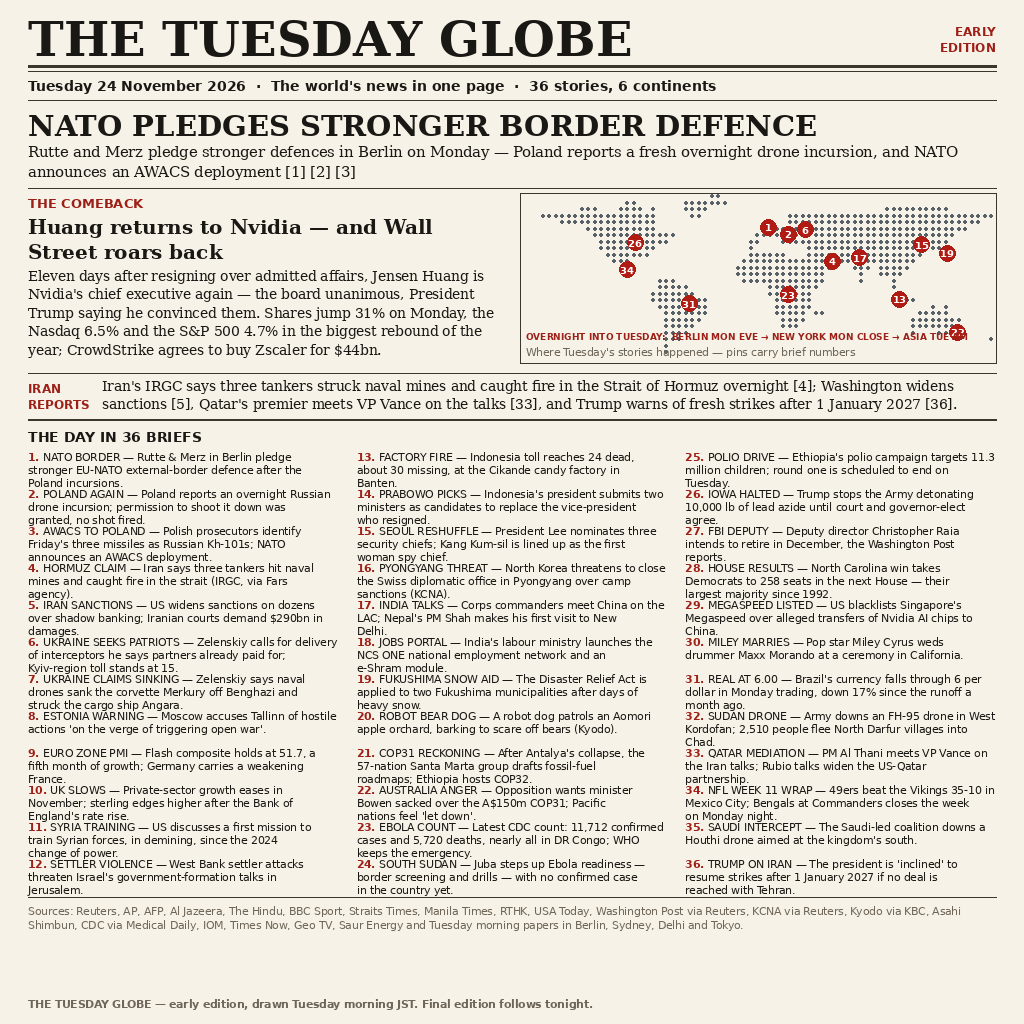
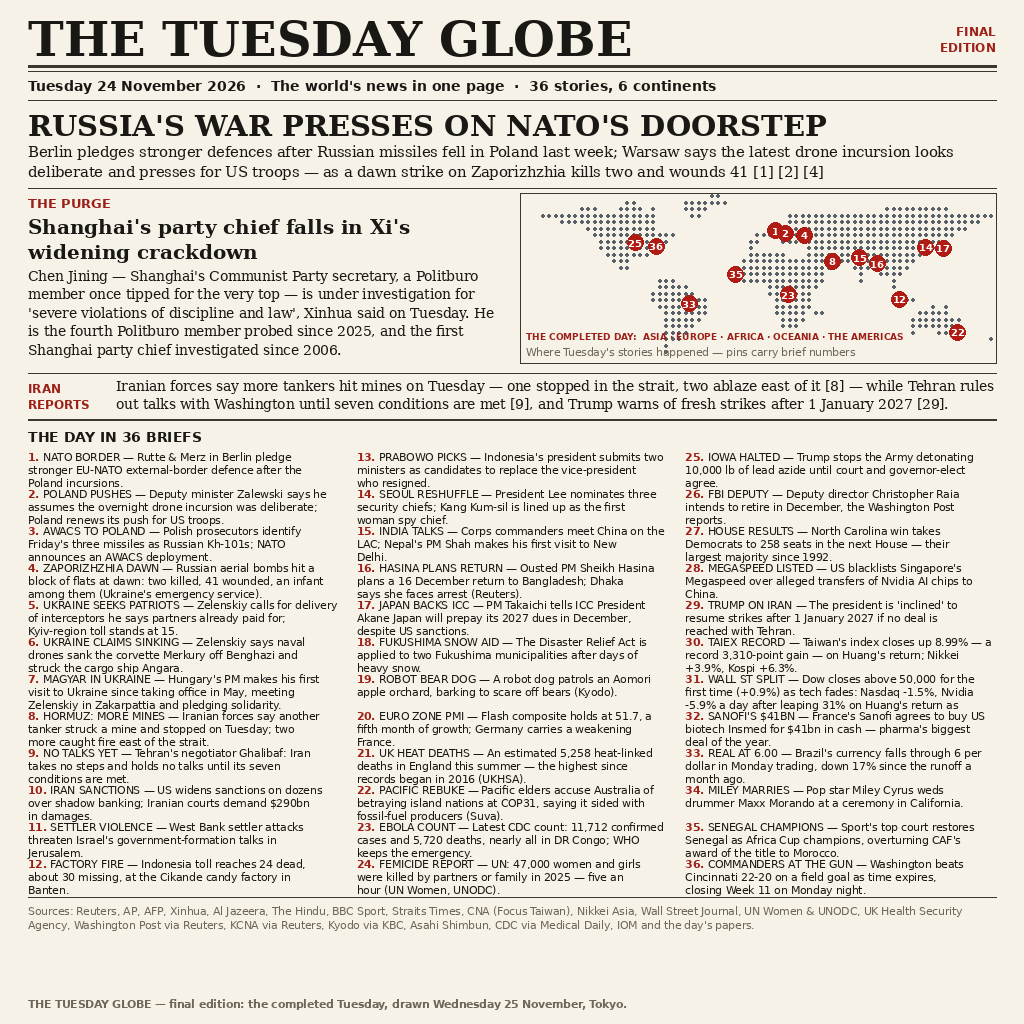
Final edition: completed Tuesday — new lead, Shanghai purge, Hormuz escalation, Tuesday markets

diff --git a/SOURCES.md b/SOURCES.md
@@ -1,63 +1,90 @@
-# Sources — Tuesday 24 November 2026 (early edition)
+# Sources — Tuesday 24 November 2026 (final edition)
 
-Every story on the page was reported on Tuesday 24 November 2026
-(Tuesday papers and Tuesday-morning wires), or is a Monday event
-carried on Tuesday's front pages; single-source claims are
-attributed on the page itself.
+Every story on the page was reported on Tuesday 24 November 2026,
+or is a Monday development that Tuesday's papers carried and that
+the page dates as such. Single-source and single-side claims are
+attributed on the page itself. This final edition was drawn on
+Wednesday 25 November with the completed Tuesday available in
+every time zone, and replaces the early edition.
 
-## Lead — NATO's eastern border
+## Lead — Russia's war and NATO's border
 
-Reuters reported NATO will deploy an AWACS early-warning aircraft
-to Poland after prosecutors confirmed three Russian Kh-101
-missiles, manufactured in Russia in Q4 2026, landed in Poland on
-Friday; and that a Russian UAV briefly violated Polish airspace
-overnight during the attack on western Ukraine, with a shoot-down
-authorised but not carried out. Kyodo's wire (via KBC, filed
-24 Nov 03:48 JST) reported the Berlin press conference: Rutte
-called the incursions a dangerous Russian incident linked to the
-war, Merz demanded Russia stop its provocations, and both pledged
-stronger EU/NATO external-border and Black Sea drone defence.
+Reuters and UPI reported the overnight Russian drone incursion
+into Polish airspace and Deputy Defence Minister Pawel Zalewski's
+statement that he assumed it was a deliberate act; Fox News
+reported Poland's renewed push on Tuesday for a permanent US
+troop presence. Kyodo's wire (via KBC) reported Monday's Berlin
+press conference: Rutte called the incursions a dangerous Russian
+incident, Merz demanded Russia stop its provocations, and both
+pledged stronger EU/NATO external-border defence. Reuters
+reported NATO's AWACS deployment decision and the prosecutors'
+identification of Friday's missiles as Russian Kh-101s. Al
+Jazeera and UPI, citing Ukraine's State Emergency Service,
+reported Tuesday's dawn strike on Zaporizhzhia: two killed, 41
+wounded, an infant among them. Reuters and the Kyiv Independent
+reported Hungary's Prime Minister Peter Magyar meeting President
+Zelenskiy in Zakarpattia on Tuesday, his first visit to Ukraine
+since taking office in May.
 
-## Second lead — the Huang comeback
+## Second lead — the Shanghai purge
 
-Reuters (Trading Day and news wires), the Asahi Shimbun and Times
-Now reported Nvidia's reinstatement of Jensen Huang as CEO eleven
-days after his resignation, the board's unanimity, President
-Trump's claim to have convinced the board, US lawmakers'
-criticism, Monday's market rebound (Nvidia +31%, Nasdaq +6.5%,
-S&P 500 +4.7%), the CrowdStrike–Zscaler $44bn deal, and the US
-Entity-List designation of Singapore's Megaspeed.
+Reuters, the Wall Street Journal, Channel NewsAsia, Al Jazeera
+and NHK reported on Tuesday, via Xinhua and the Central
+Commission for Discipline Inspection, that Shanghai party
+secretary Chen Jining, a Politburo member, is under investigation
+for suspected severe violations of discipline and law — the
+fourth Politburo member probed since 2025 and the first Shanghai
+party chief investigated since 2006.
 
-## Third lead — Hormuz and Iran
+## Strip — Hormuz
 
-Times Now's live blog (24 Nov, IST) carried Fars/IRGC's report of
-three tankers hitting naval mines in the Strait of Hormuz; Geo TV
-and wire reports carried the US Treasury's wider Iran sanctions,
-the $290bn damages demand, the Rubio–Al Thani talks, the Qatari
-premier's meeting with VP Vance, Trump's post-1-January strike
-warning, and the Saudi-led coalition's Houthi drone interception.
+Xinhua (24 Nov), Arab News and Shafaq News reported the Iranian
+Army's and IRGC Navy's statements of further mine strikes on
+Tuesday — one tanker stopped, two more on fire east of the
+strait — and parliament speaker Mohammad Bagher Ghalibaf's
+statement that Iran will take no practical steps and hold no
+talks with Washington until its seven conditions are met. US
+Central Command had not responded to the Iranian claims.
 
-## The 36 briefs
+## Markets and business briefs
+
+CNA (Focus Taiwan) reported the Taiex closing up 8.99 percent, a
+record gain of 3,310.46 points, on Jensen Huang's reinstatement
+at Nvidia; Nikkei Asia reported the Nikkei up about 3.9 percent
+and the Kospi up about 6.3 percent. Reuters market reports gave
+Tuesday's US close: Dow +0.85% to 50,018.70 (its first close
+above 50,000), S&P 500 -0.50%, Nasdaq -1.48%, Nvidia -5.9% after
+Monday's 31% leap on Huang's return. The Wall Street Journal and
+the companies' release (24 Nov) reported Sanofi's agreement to
+buy Insmed for $41 billion in cash, the sector's biggest deal of
+2026.
+
+## The remaining briefs
 
 The briefs draw on: Al Jazeera and The Hindu (Kyiv region toll of
-15, the Dymer rescue, the Patriot appeal); Zelenskiy's statement
-on the Merkury sinking (Reuters/Al Jazeera); Russia's Foreign
-Ministry on Estonia (Reuters summary); Reuters flash PMI reports
-for the euro zone and the UK; Reuters on Syria training talks and
-West Bank settler violence; Reuters on the Cikande factory fire
-(24 dead, about 30 missing), Prabowo's vice-presidential nominees
-and President Lee's security reshuffle (Kang Kum-sil, first woman
-NIS director nominee); KCNA via Reuters on the Swiss office;
-Raisina Post/UPSC canvas on India–China LAC talks, the Nepal PM's
-Delhi visit and the NCS ONE portal; Kyodo items in Tuesday's
-Japanese papers (Fukushima snow relief, Hitachiomiya briefing,
-Aomori robot dog); Straits Times, Saur Energy and Times of Central
-Asia on the COP31 aftermath and Australia's backlash; CDC figures
-via Medical Daily (11,712 Ebola cases, 5,720 deaths) and Today
-News Africa (South Sudan readiness, Ethiopia polio campaign);
-USA Today and Reuters on the halted Iowa lead-azide detonation;
-the Washington Post via Reuters on FBI deputy director Raia;
-Reuters on the Democrats' 258 House seats and Miley Cyrus's
-wedding; Reuters Trading Day on Brazil's real at 6.00 per dollar;
-Yeni Safak/IOM on Sudan; and BBC Sport / Field Level Media on
-NFL Week 11 (49ers in Mexico City, Bills 9-1).
+15, the Patriot appeal); Zelenskiy's statement on the Merkury
+sinking (Reuters/Al Jazeera); Reuters on West Bank settler
+violence, the Cikande factory fire (24 dead, about 30 missing),
+Prabowo's vice-presidential nominees and President Lee's security
+reshuffle (Kang Kum-sil, first woman NIS director nominee);
+Raisina Post/UPSC canvas on India–China LAC talks and the Nepal
+PM's Delhi visit; Reuters on Sheikh Hasina's planned 16 December
+return and Dhaka's arrest warning; Nikkan Sports on Prime
+Minister Takaichi's meeting with ICC President Tomoko Akane and
+Japan's prepayment of its 2027 ICC dues; Kyodo items in Tuesday's
+Japanese papers (Fukushima snow relief, Aomori robot dog); Reuters
+flash PMI for the euro zone; the UK Health Security Agency's
+Tuesday release of an estimated 5,258 heat-linked deaths in
+England in summer 2026, the highest since records began in 2016;
+PACNEWS (Suva, 24 Nov) on the Pacific Elders' Voice statement
+accusing Australia over COP31; CDC figures via Medical Daily
+(11,712 Ebola cases, 5,720 deaths); UN Women and UNODC's Femicide
+Brief published on Tuesday (47,000 women and girls killed by
+partners or family in 2025); USA Today and Reuters on the halted
+Iowa lead-azide detonation; the Washington Post via Reuters on
+FBI deputy director Raia; Reuters on the Democrats' 258 House
+seats and Miley Cyrus's wedding; Reuters Trading Day on Brazil's
+real at 6.00 per dollar in Monday trading; AP and the Court of
+Arbitration for Sport on Senegal's reinstatement as Africa Cup
+champions; and AP on Washington's 22-20 win over Cincinnati on
+Monday night.

diff --git a/README.md b/README.md
@@ -7,16 +7,18 @@
 THE TUESDAY GLOBE — one image that sums up the world news of
 **Tuesday 24 November 2026**: the front page of an imaginary daily
 newspaper, drawn at 1024x1024 so the date and every headline stay
-readable even as a thumbnail. This early edition, drawn on Tuesday
-morning in Tokyo, carries **36 stories from 6 continents**: a lead
-report (NATO's pledge of stronger border defence after Russian
-missiles fell in Poland and a fresh drone incursion overnight), a
-second lead on Jensen Huang's return to Nvidia and Wall Street's
-rebound, a strip on Iran's report of three tanker fires in the
-Strait of Hormuz, a dotted world map whose numbered pins match the
-stories, 36 numbered briefs in three columns, and a sources line
-along the foot of the page. A final edition follows tonight; the
-last submission before the deadline counts.
+readable even as a thumbnail. This final edition, drawn on
+Wednesday in Tokyo with the completed Tuesday available in every
+time zone, carries **36 stories from 6 continents**: a lead report
+(Russia's war pressing on NATO's border — Berlin's defence pledge,
+Warsaw calling the latest drone incursion deliberate, and the
+dawn strike on Zaporizhzhia), a second lead on the fall of
+Shanghai's party chief Chen Jining in Xi's widening crackdown, a
+strip on Iran's reports of further tanker mine strikes in the
+Strait of Hormuz, a dotted world map whose numbered pins match
+the stories, 36 numbered briefs in three columns, and a sources
+line along the foot of the page. It replaces the early edition;
+the last submission before the deadline counts.
 
 This repository is an entry in the make.fun bounty
 [Sum up 24 November's world news in one image](https://make.fun/bounty/news-image-20261124).
